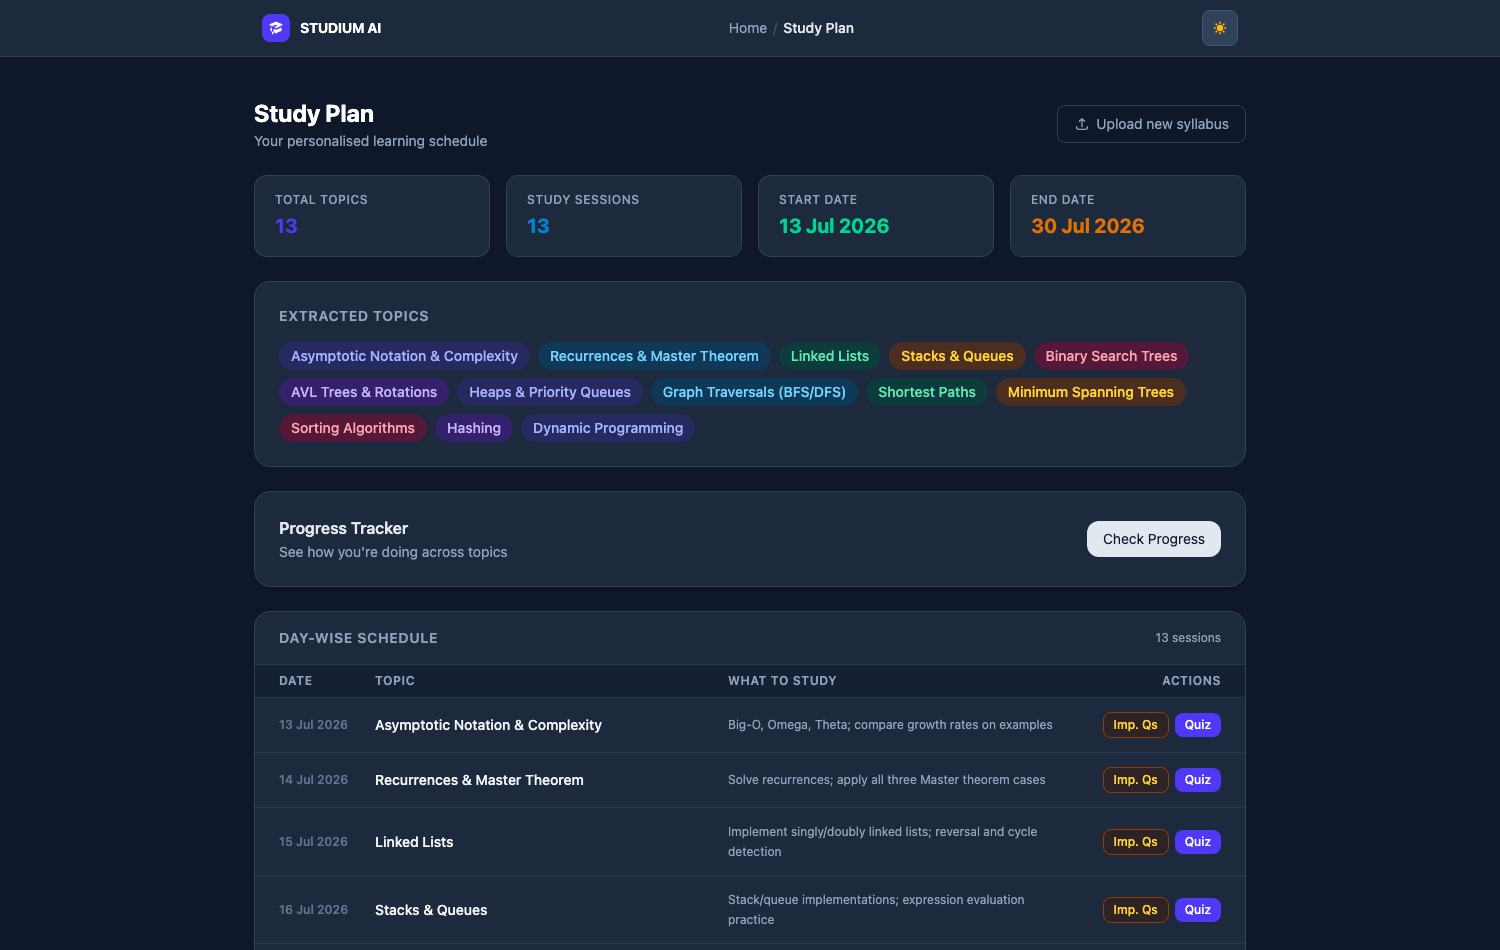
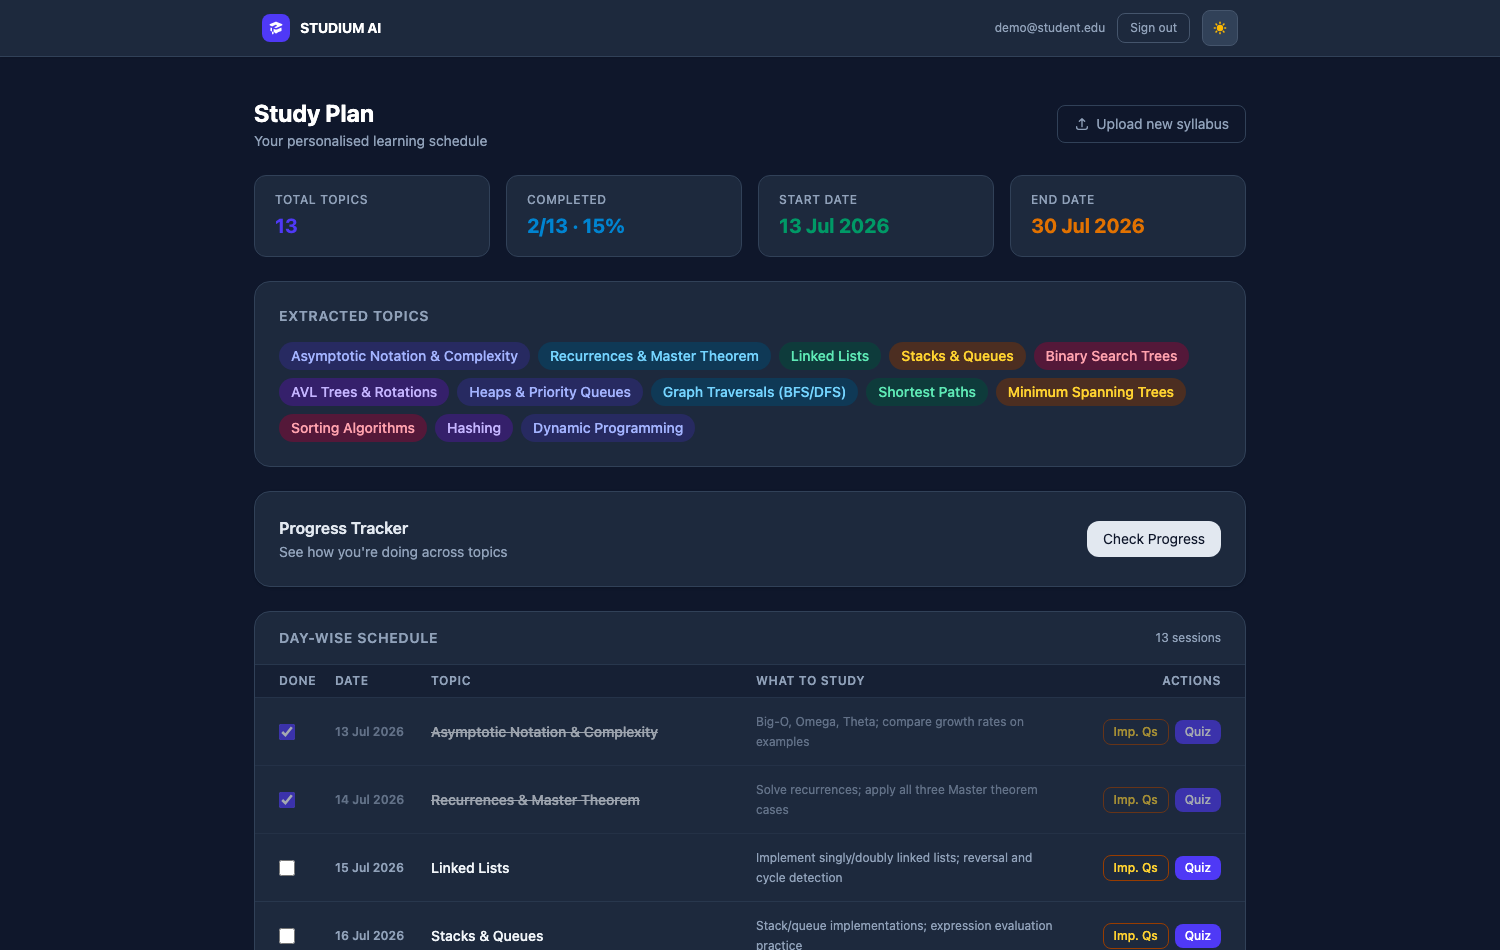
Update README, screenshots and .env.example for accounts + routing

diff --git a/README.md b/README.md
@@ -19,6 +19,7 @@ syllabus PDF ─▶ extract topics ─▶ plan sessions ─▶ student takes qui
                                  add review sessions ◀─ detect weak topics (<70%)
 ```
 
+0. **Accounts**: email + password auth (scrypt-hashed, JWT bearer tokens) — every syllabus, plan, quiz and result is scoped to its owner, and foreign IDs 404
 1. **Planner** extracts topics from the uploaded PDF and breaks them into ordered study sessions
 2. **Quizzer** generates per-topic MCQs — answers are stored server-side and *never sent to the client* until submission (no cheating via DevTools)
 3. **Results** aggregates scores per topic and flags weak ones (average < 70%)
@@ -38,11 +39,11 @@ Every LLM response is schema-validated before use: malformed quiz questions are 
 
 ## Tech stack
 
-- **Frontend** — React 19 + Vite + TypeScript + Tailwind CSS v4, full dark mode
+- **Frontend** — React 19 + Vite + TypeScript + Tailwind CSS v4 + React Router, full dark mode; plans are URL-addressable (`/plan/:id`) so refresh and deep links work
 - **Backend** — FastAPI, agents in `backend/agents/` sharing one LLM gateway (`backend/llm.py`)
 - **LLM** — Groq (`llama-3.3-70b-versatile` by default, override with `GROQ_MODEL`) — free tier works
 - **Database** — MongoDB (syllabi, plans, quizzes, results)
-- **Tests** — 23 pytest cases: date assignment invariants, LLM-output validation, scoring, API contracts (LLM mocked, MongoDB via mongomock)
+- **Tests** — 33 pytest cases: auth + per-user data isolation, date assignment invariants, LLM-output validation, scoring, API contracts (LLM mocked, MongoDB via mongomock)
 
 ## Run locally
 
@@ -53,7 +54,7 @@ Prereqs: Python 3.11+, Node 20+, MongoDB running locally (or an Atlas URI).
 cd backend
 python3 -m venv .venv && source .venv/bin/activate
 pip install -r requirements.txt
-cp ../.env.example .env         # add your GROQ_API_KEY (free at console.groq.com)
+cp ../.env.example .env         # add GROQ_API_KEY (free at console.groq.com) + JWT_SECRET
 uvicorn main:app --reload       # :8000
 
 # Frontend (separate terminal)
@@ -71,6 +72,11 @@ cd backend && pip install -r requirements-dev.txt && python -m pytest tests -q
 
 | Endpoint | What it does |
 |---|---|
+| `POST /api/auth/register` · `/login` | Email+password accounts → JWT (7-day) |
+| `GET /api/auth/me` | Resolve the current token |
+| `GET /api/syllabi` | Your syllabi with per-plan progress (home dashboard) |
+| `GET /api/plan/{syllabus_id}` | Full plan — restores state on refresh/deep link |
+| `PATCH /api/plan/{id}/sessions/{i}` | Mark a session done / pending |
 | `POST /api/upload-syllabus` | PDF (≤10 MB) + study days → topics + dated study plan |
 | `POST /api/quiz/generate` | 5 validated MCQs for a topic (answers withheld) |
 | `POST /api/quiz/submit` | Server-side scoring with per-question breakdown |
@@ -81,10 +87,10 @@ cd backend && pip install -r requirements-dev.txt && python -m pytest tests -q
 
 ## Honest limitations / roadmap
 
-- **No accounts** — anyone with a syllabus_id can read its plan; auth is the first thing needed for multi-user deployment
-- **No URL routing** — view state lives in React state, so refreshing loses your place (react-router migration planned)
-- Session `status` (pending/done) exists in the data model but there's no UI to mark sessions done yet
+- JWTs live in localStorage (simple, but XSS-exposed) — httpOnly cookie sessions are the hardening step
+- No rate limiting on LLM-backed endpoints — needed before any public deployment
 - Topic matching between quizzes and plan sessions is by exact string — a rename by the LLM would orphan results
+- No email verification / password reset
 
 ## License
 